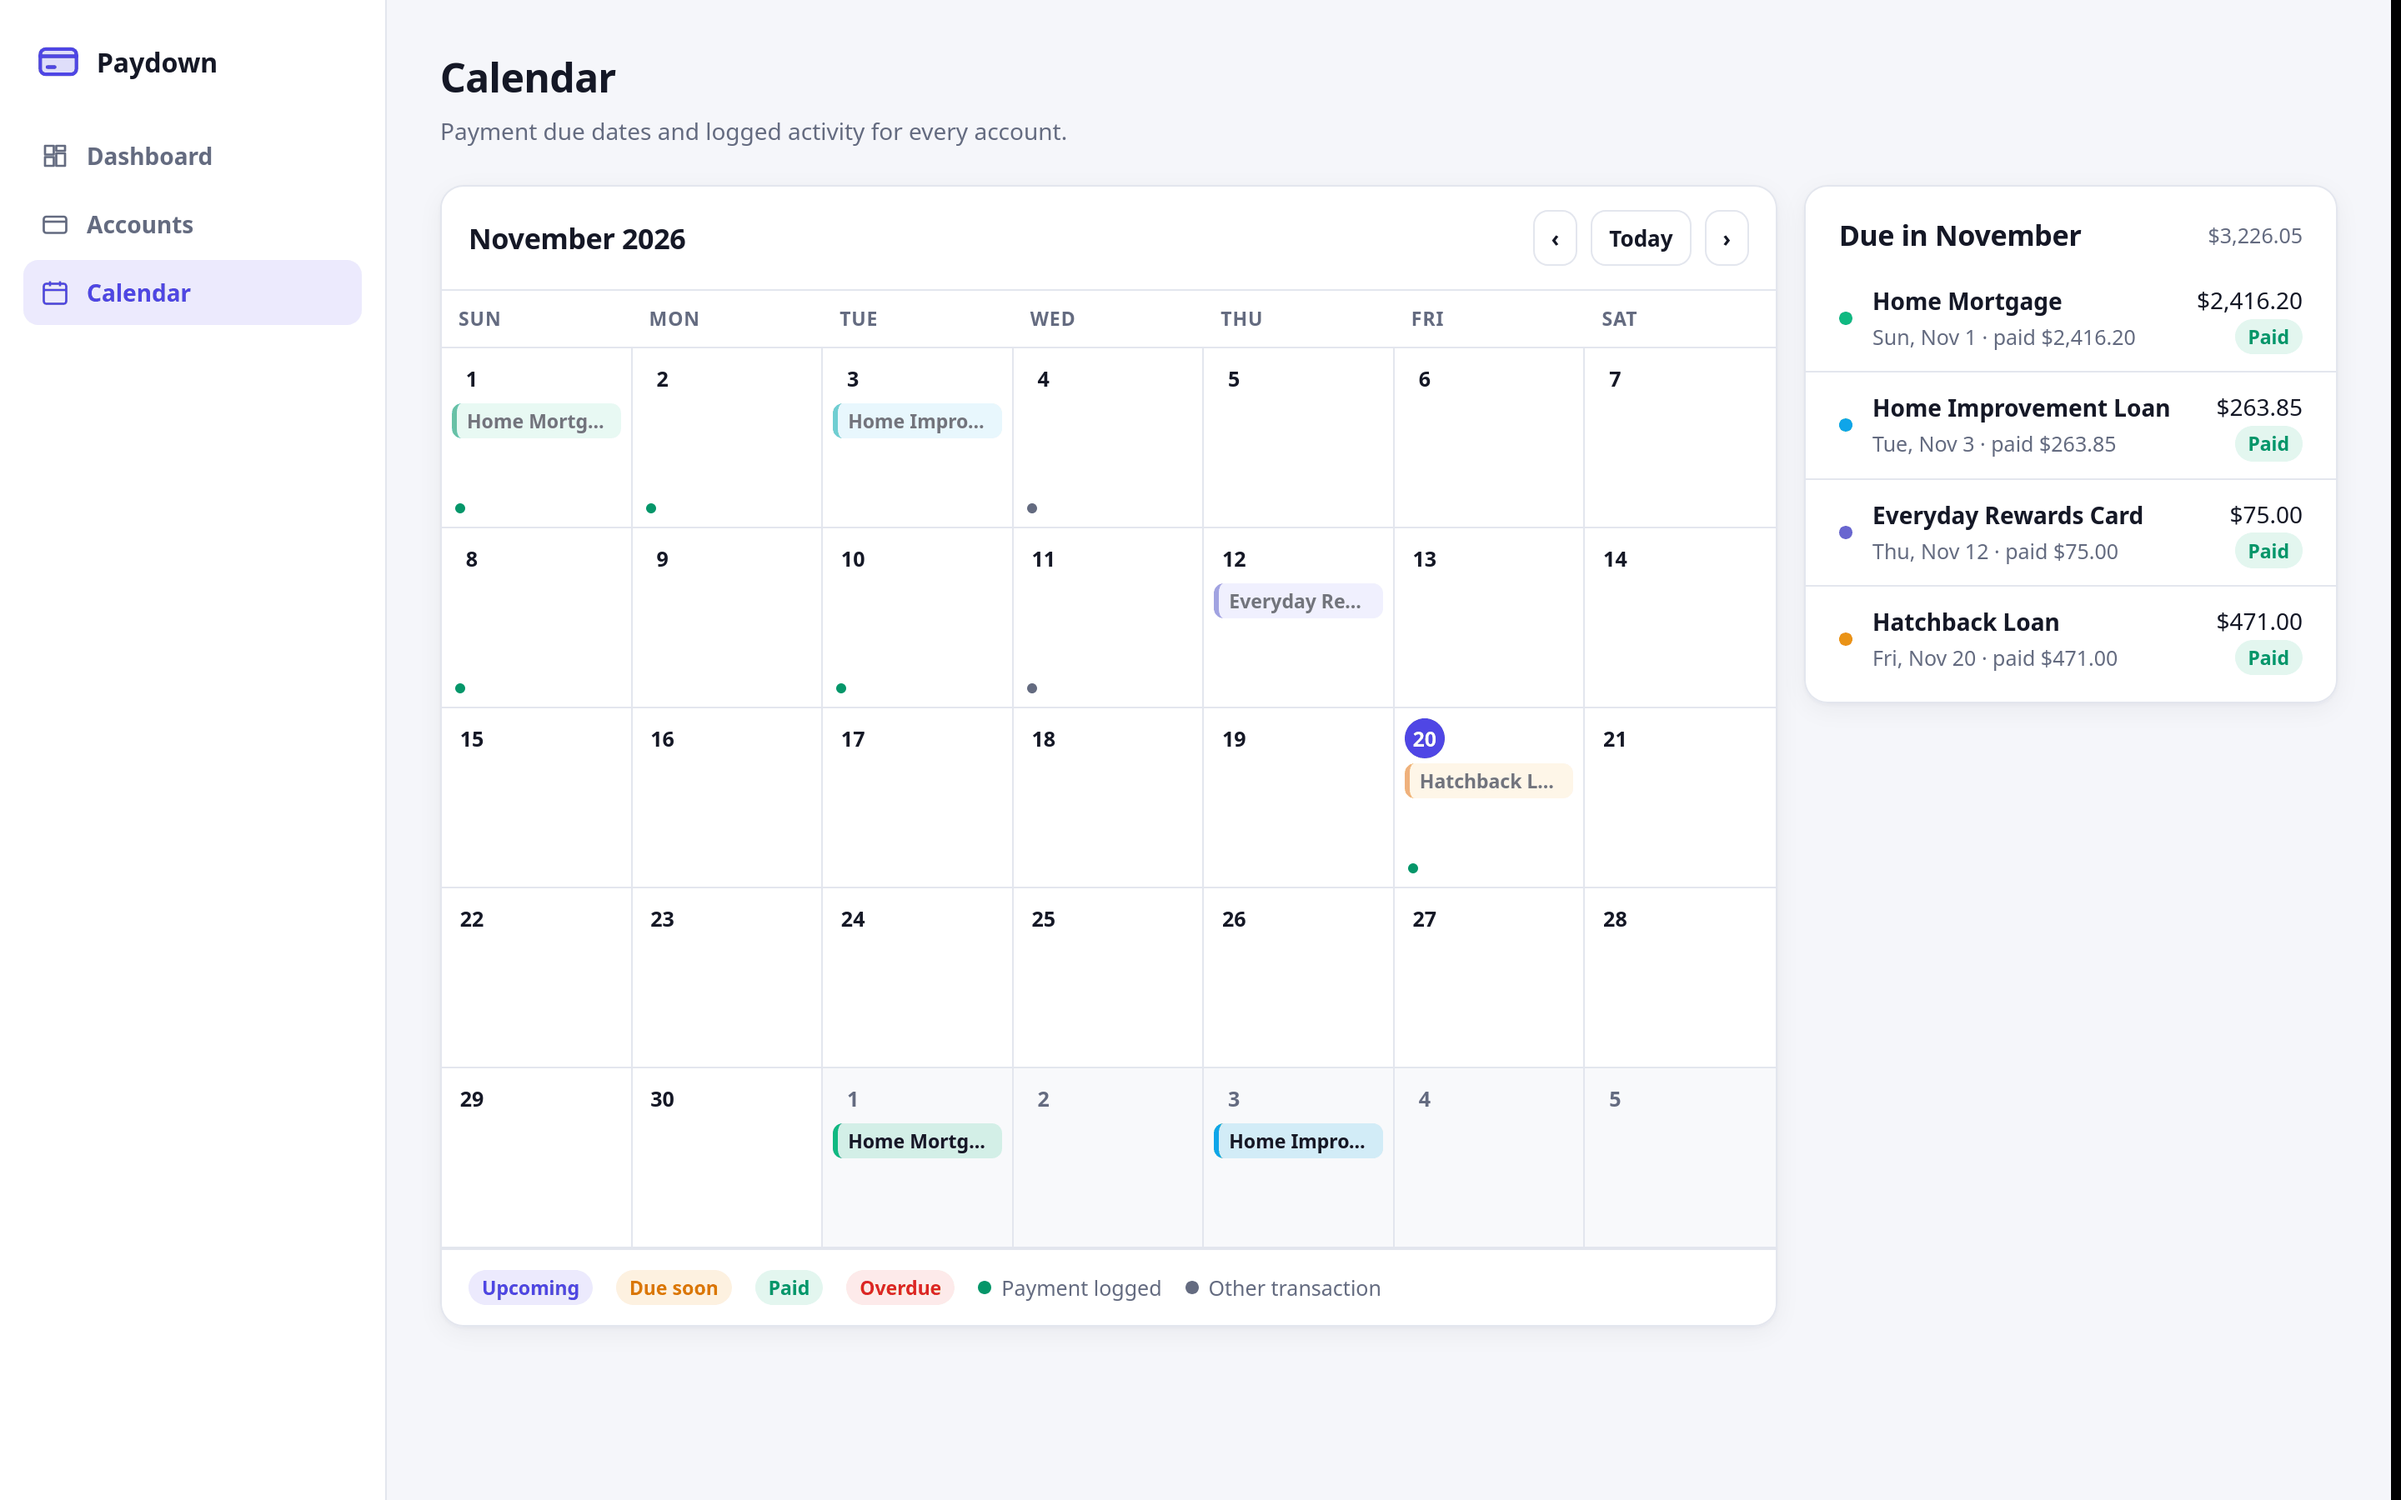
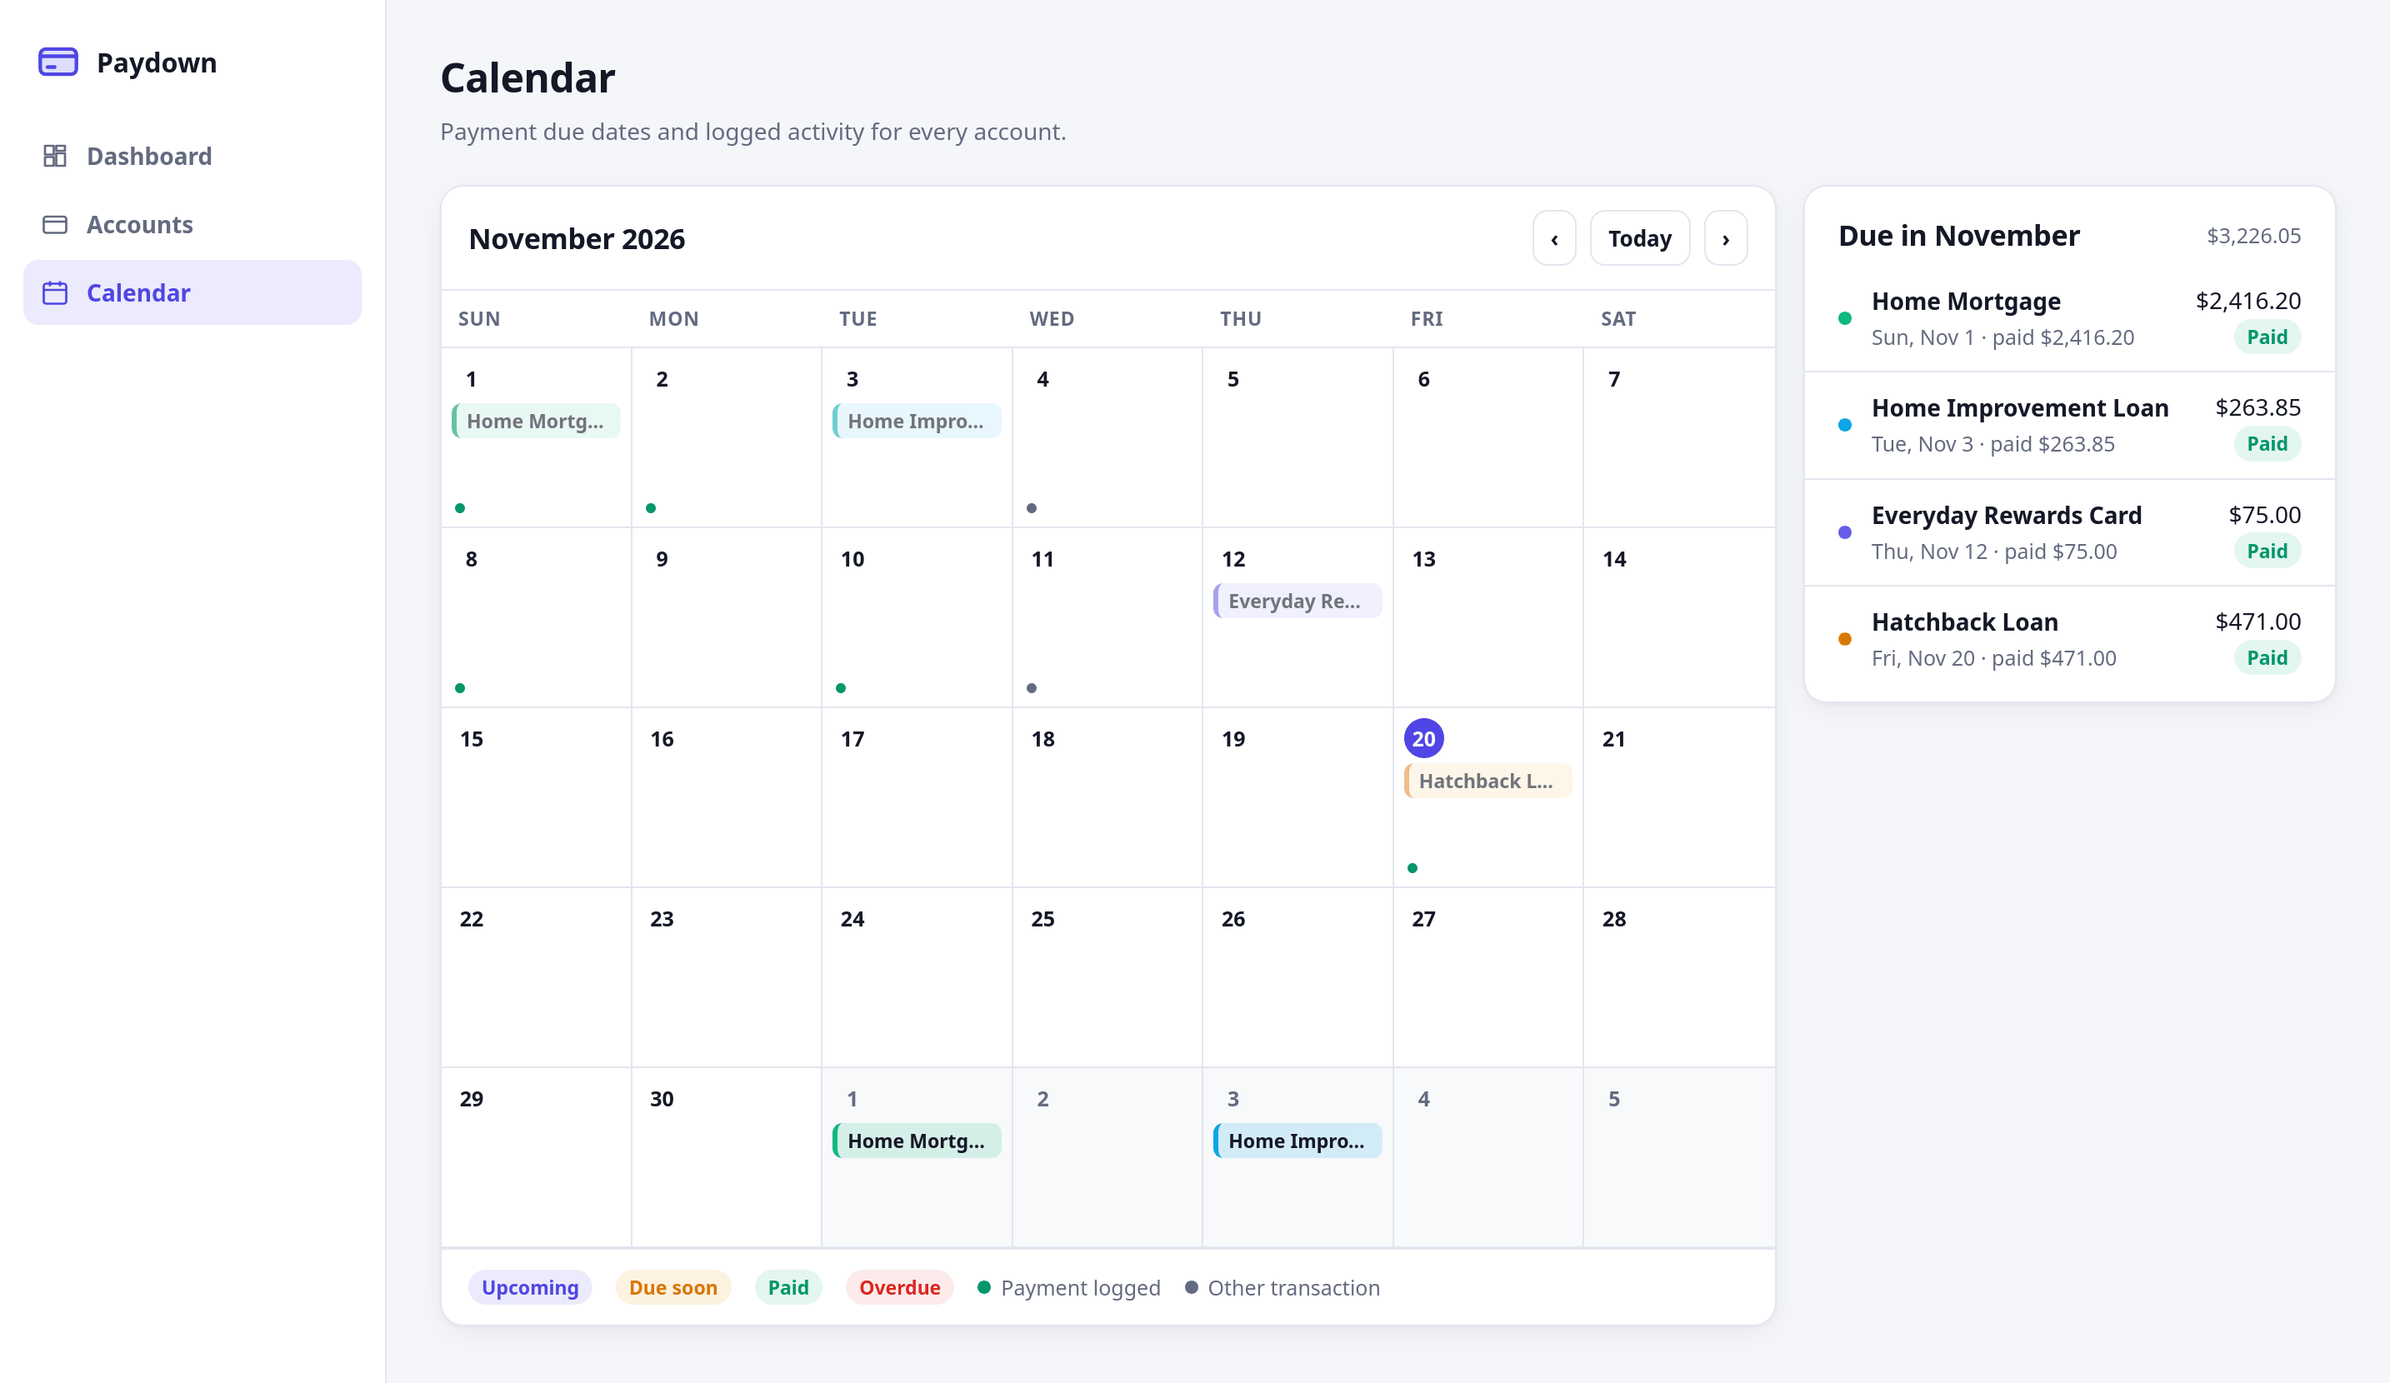
Use cropped README screenshots; show an account page
Crop the dashboard to its first screen and trim empty space, drop the
Accounts list in favor of the mortgage account page (interest/escrow/
principal split and documents), and lay the account page and calendar
out side by side. Also removes a 12px black strip that headless Firefox
left on the right edge of each capture.

diff --git a/README.md b/README.md
@@ -15,18 +15,20 @@ and data is a single JSON file on the server.
 ## Screenshots
 
 Shown with the built-in sample data (*Load sample data* on a fresh install). All names and numbers are made up.
+Click an image to see it full size.
 
-**Dashboard**: debt totals, cash and savings, upcoming due dates and recent activity.
+[![Paydown dashboard: debt totals, cash and savings, debts and upcoming due dates](docs/screenshots/dashboard.png)](docs/screenshots/dashboard.png)
 
-![Paydown dashboard](docs/screenshots/dashboard.png)
-
-**Accounts**: credit cards, loans, mortgage, checking and savings at a glance.
-
-![Paydown accounts page](docs/screenshots/accounts.png)
-
-**Calendar**: payment due dates for every account, marked paid, upcoming or overdue.
-
-![Paydown calendar](docs/screenshots/calendar.png)
+<table>
+  <tr>
+    <th width="50%">Account page: payments split into interest, escrow and principal, plus agreement and statement PDFs</th>
+    <th width="50%">Calendar: every account's due dates, marked paid, upcoming or overdue</th>
+  </tr>
+  <tr>
+    <td><a href="docs/screenshots/account.png"><img src="docs/screenshots/account.png" alt="Paydown mortgage account page"></a></td>
+    <td><a href="docs/screenshots/calendar.png"><img src="docs/screenshots/calendar.png" alt="Paydown payment calendar"></a></td>
+  </tr>
+</table>
 
 ## Install (Debian / Ubuntu, e.g. a Proxmox LXC)
 
